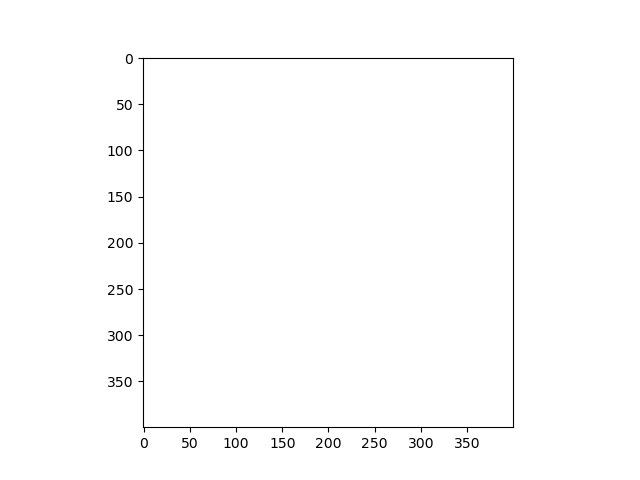
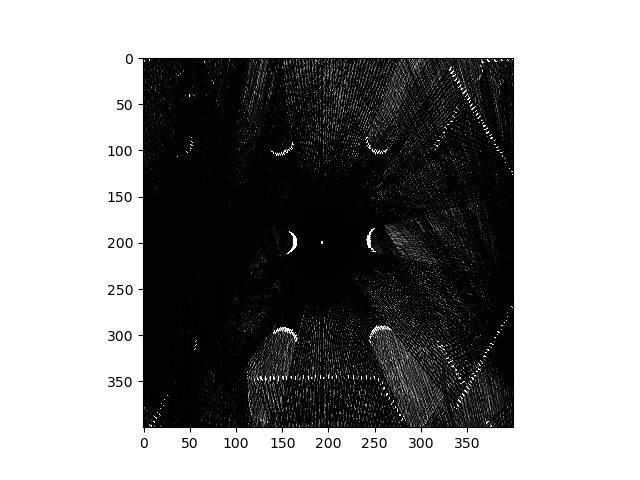
Fixed icompetent starter code bug where a local isntance of self.np_map was being updated

diff --git a/nodes/l3_mapping.py b/nodes/l3_mapping.py
@@ -97,34 +97,30 @@ class OccupancyGripMap:
         # YOUR CODE HERE!!! Loop through each measurement in scan_msg to get the correct angle and
         # x_start and y_start to send to your ray_trace_update function.
 
-        curr_angle_R = scan_msg.angle_min
         increment = 0
-        while curr_angle_R < scan_msg.angle_max:
-
-            curr_range = scan_msg.ranges[increment]
-            if curr_range > scan_msg.range_max or curr_range < scan_msg.range_min:
+        for laser_range in scan_msg.ranges:
+            
+            curr_angle_R = scan_msg.angle_min + increment * scan_msg.angle_increment
+            if laser_range > scan_msg.range_max or laser_range < scan_msg.range_min:
                 pass
             else:
-                curr_angle_I = self.normalize_angle(odom_map[2] - curr_angle_R)
+                curr_angle_I = self.normalize_angle(odom_map[2] + curr_angle_R)
                 self.ray_trace_update(
-                    self.np_map, 
                     self.log_odds, 
                     odom_map[0], 
                     odom_map[1],
                     curr_angle_I,
-                    curr_range
+                    laser_range
                     )
-
-
-            curr_angle_R += scan_msg.angle_increment
             increment += 1
+            
 
         # publish the message
         self.map_msg.info.map_load_time = rospy.Time.now()
         self.map_msg.data = self.np_map.flatten()
         self.map_pub.publish(self.map_msg)
 
-    def ray_trace_update(self, map, log_odds, x_start, y_start, angle, range_mes):
+    def ray_trace_update(self, log_odds, x_start, y_start, angle, range_mes):
         """
         A ray tracing grid update as described in the lab document.
 
@@ -142,7 +138,6 @@ class OccupancyGripMap:
 
         x_start_pixel = math.ceil(x_start/self.map_msg.info.resolution) - 1
         y_start_pixel = self.map_msg.info.height - (math.ceil(y_start/self.map_msg.info.resolution) - 1)
-
         x_end = x_start + np.cos(angle) * range_mes
         y_end = y_start + np.sin(angle) * range_mes
         x_end_pixel = int(x_end/self.map_msg.info.resolution) - 1
@@ -154,14 +149,19 @@ class OccupancyGripMap:
         for point_index in range(len_beam):
             row = rr[point_index]
             column = cc[point_index]
-            if point_index < len_beam - NUM_PTS_OBSTACLE:
-                log_odds[row, column] += ALPHA
-            else:
-                log_odds[row, column] -= BETA
-
-        map = (100 * self.log_odds_to_probability(log_odds)).astype(int)
-
-        return map, log_odds
+            try: 
+                if point_index < len_beam - NUM_PTS_OBSTACLE:
+                    log_odds[row, column] += ALPHA
+                else:
+                    log_odds[row, column] -= BETA
+            except IndexError:
+                return 
+ 
+        test = np.zeros((400, 400)) - 1
+        rr, cc = ray_trace(0, 0, 399, 399)
+        test[rr, cc] = 50
+        self.np_map = (100 * self.log_odds_to_probability(log_odds)).astype(np.uint8)
+        return self.np_map, log_odds
 
     def log_odds_to_probability(self, values) -> np.ndarray:
         # print(values)
